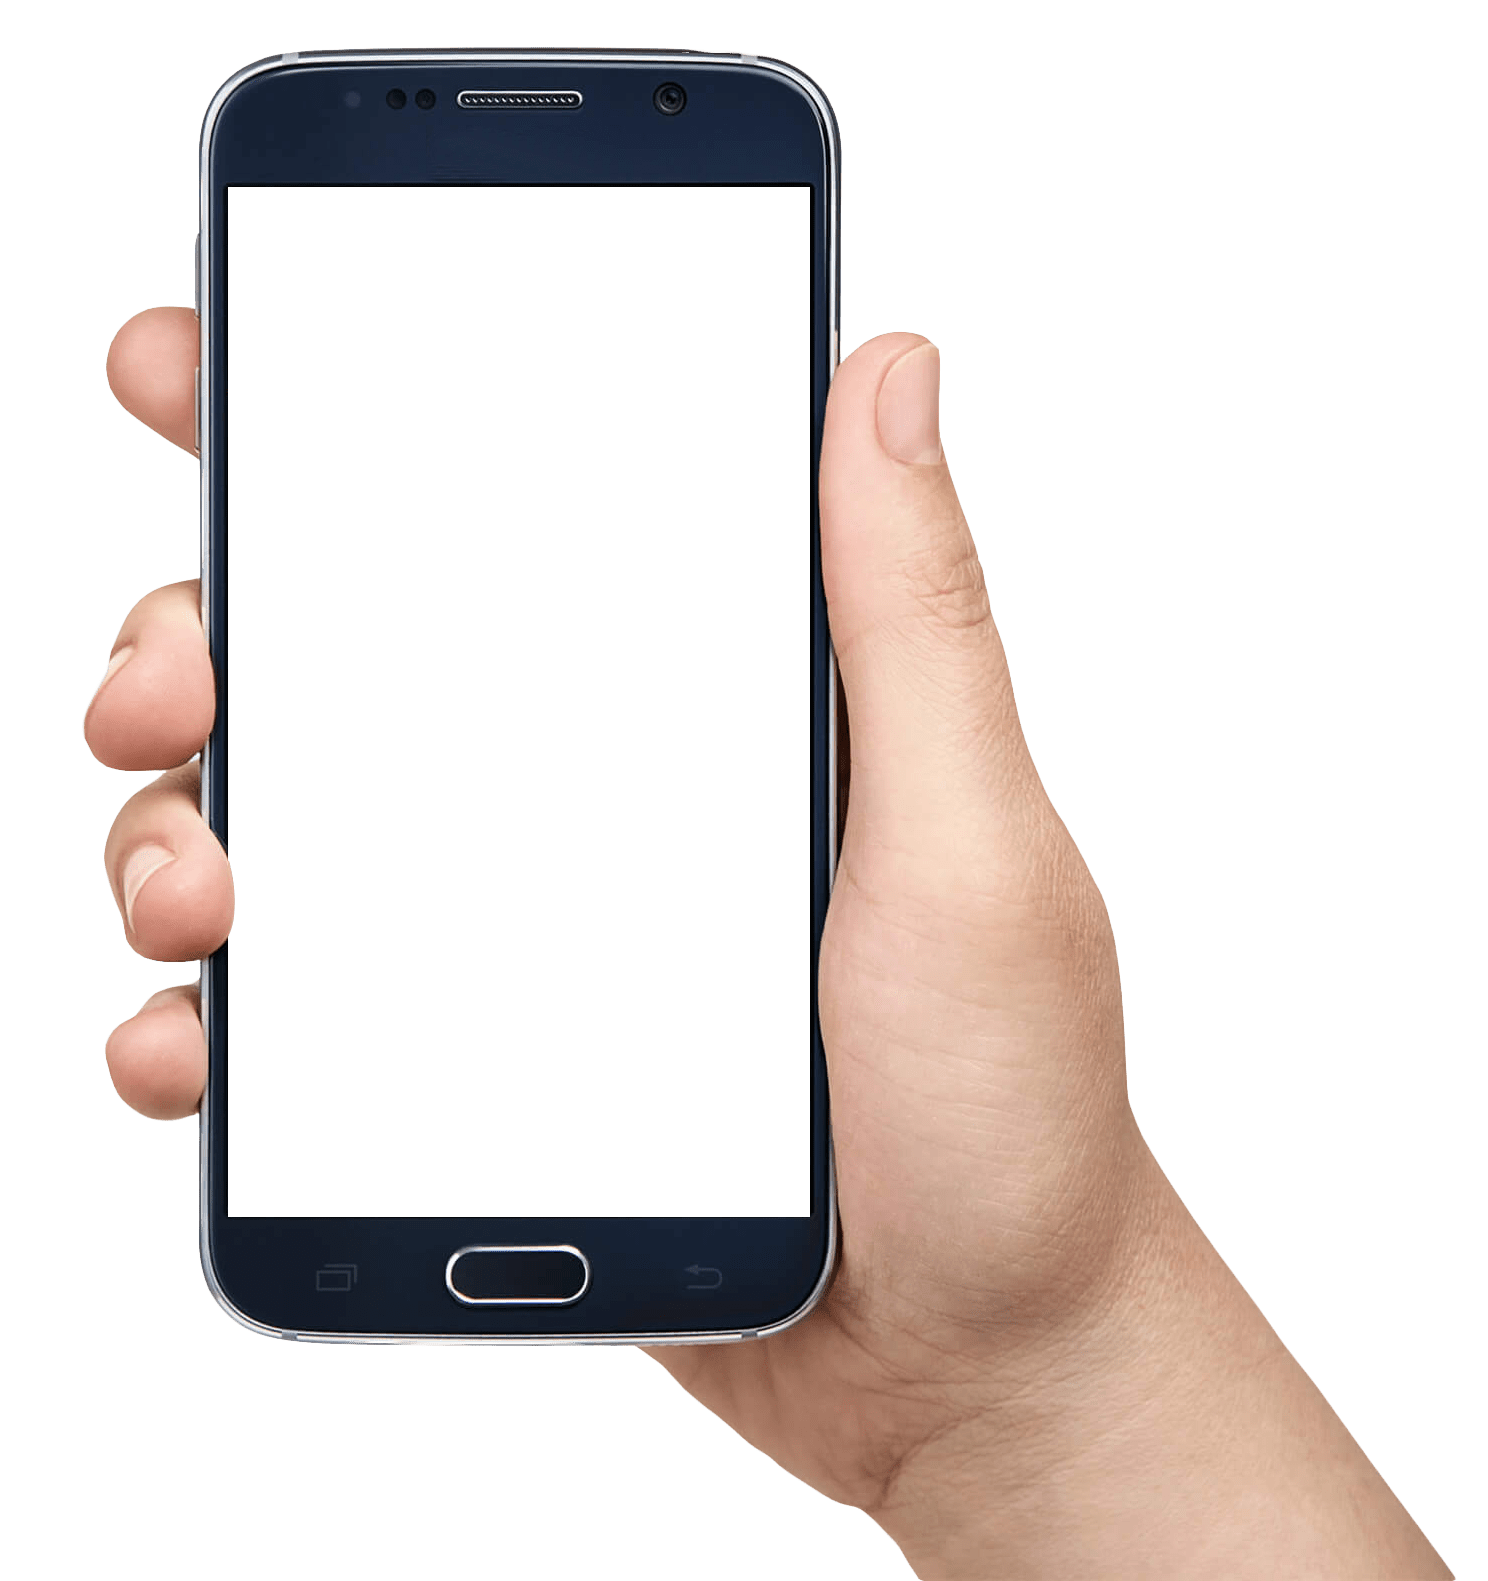
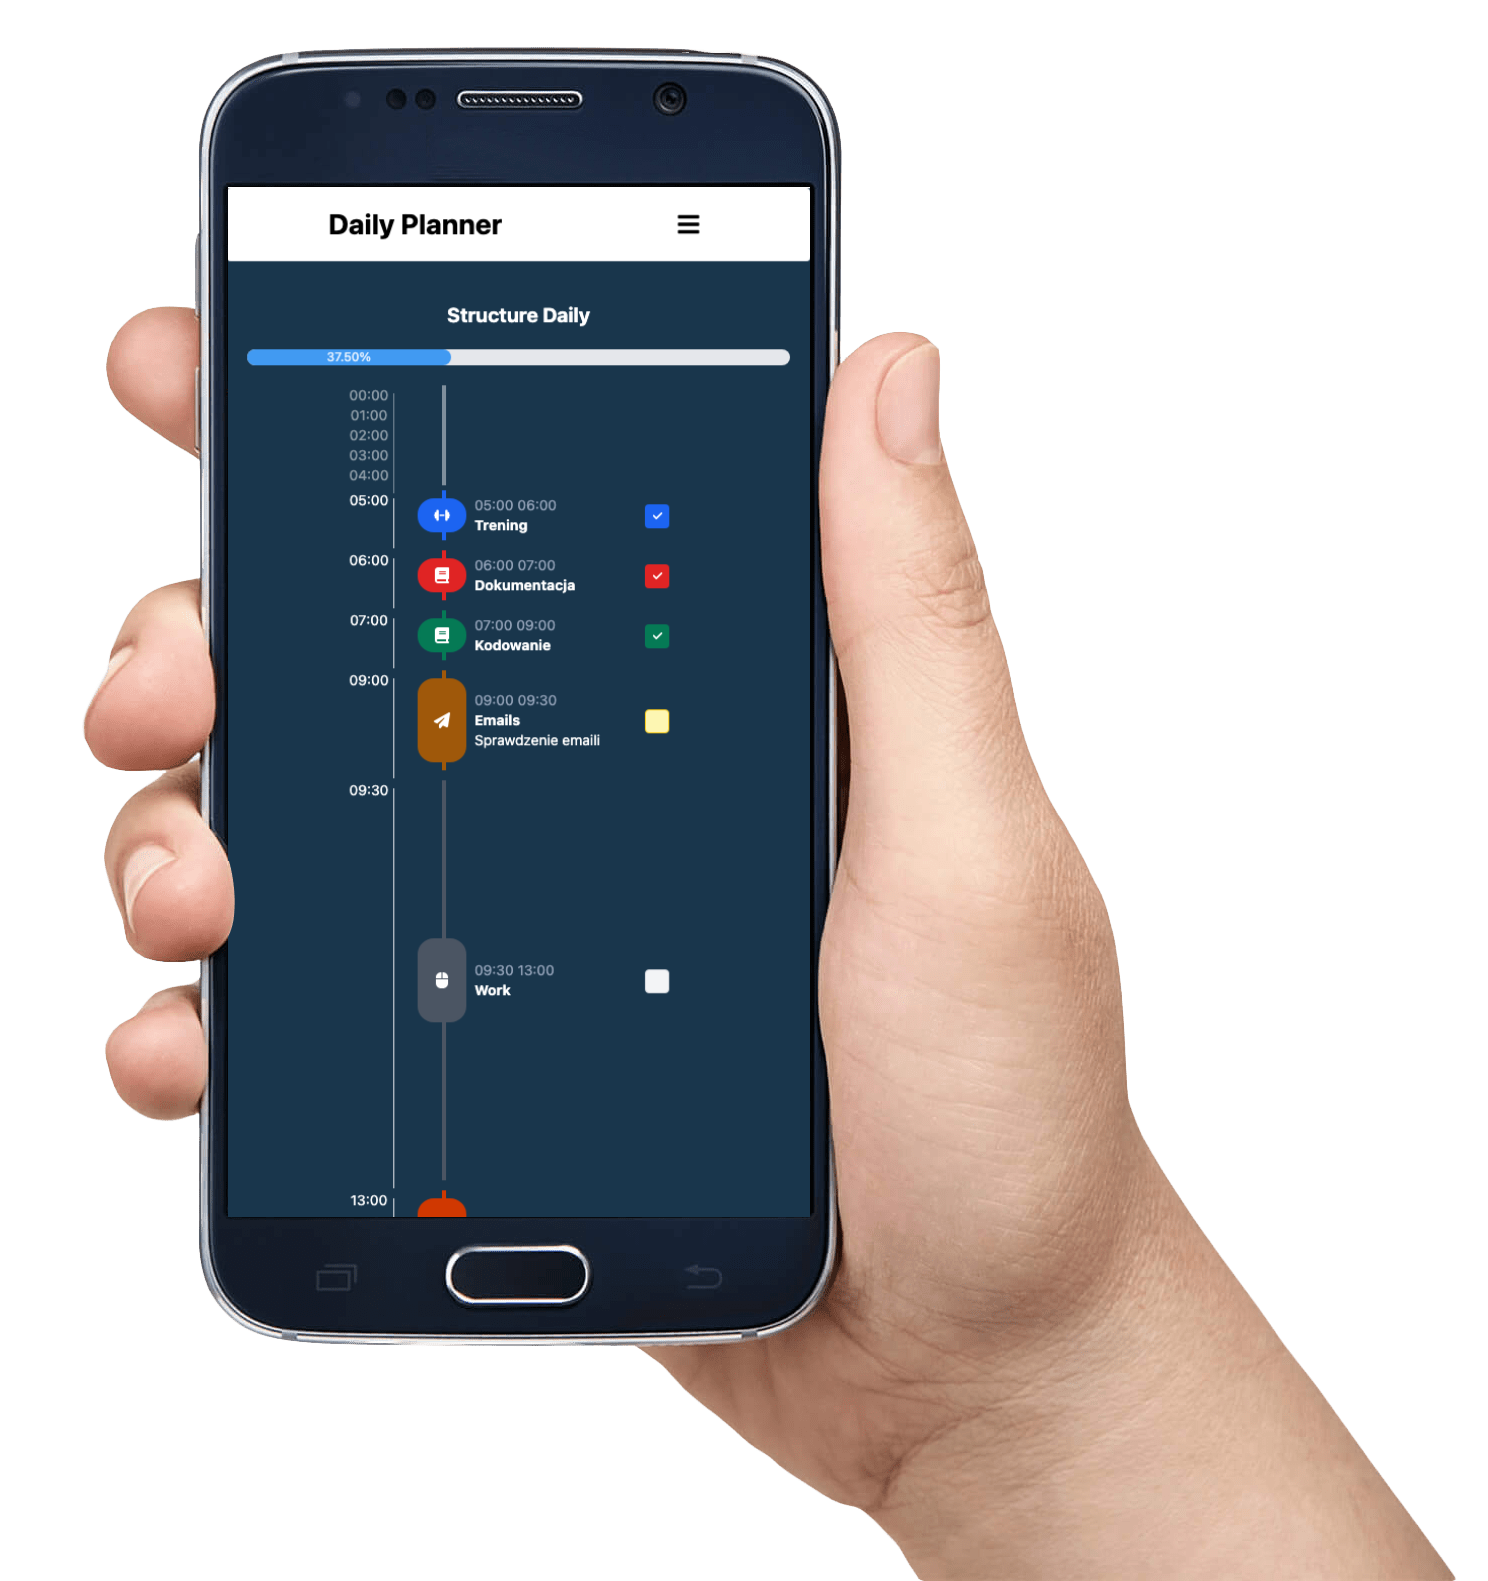
add app photo to mobile

Changed region(s): [[0.1546, 0.124, 0.5565, 0.7748]]

diff --git a/src/pages/Credentials/Credentials.tsx b/src/pages/Credentials/Credentials.tsx
@@ -12,7 +12,7 @@ const Credentials = ({}) => {
     <MotionWrapper>
       <LayoutWrapper paddingTop={true}>
         <Header title="Credentials" />
-        <div className="container m-auto h-[calc(100%-44px)] max-h-[900px] border rounded-lg">
+        <div className="container m-auto h-[calc(100%-68px)] max-h-[900px] xl:border rounded-lg">
           <div className="flex flex-col justify-between h-full">
             <div className="border bg-white text-black border-black-50 w-80 mx-auto flex flex-col items-center justify-center p-10 mt-5 rounded-lg">
               <div className="h-20">

diff --git a/src/pages/Intro/Intro.tsx b/src/pages/Intro/Intro.tsx
@@ -6,7 +6,7 @@ const Intro = ({}) => {
   return (
     <MotionWrapper>
       <LayoutWrapper paddingTop={false}>
-        <div className="container m-auto text-white lg:grid grid-cols-2 h-screen pt-5 max-h-[900px] lg:border-b pb-10">
+        <div className="container m-auto text-white lg:grid grid-cols-2 pt-5 max-h-[900px] lg:border-b pb-10">
           <div className="flex justify-center flex-col">
             <h2 className="text-left font-bold text-2xl my-10">
               Structure Planner - Boost Your Productivity with Ease

diff --git a/src/pages/Structure/Structure.tsx b/src/pages/Structure/Structure.tsx
@@ -147,7 +147,7 @@ const Structure: FC = () => {
         <Header title="Structure Daily">
           <Progress progress={progress} />
         </Header>
-        <div className="container mx-auto">
+        <div className="container mx-auto pb-10">
           <div className="Calendar my-5 relative mx-auto min-w-[22rem]">
             <HourLineWrapper timePosition={timePosition}>
               <HourLine actualHour={actualHour} />

diff --git a/src/Layout/LayoutWrapper.tsx b/src/Layout/LayoutWrapper.tsx
@@ -9,7 +9,7 @@ const LayoutWrapper: React.FC<LayoutWrapperProps> = ({
   return (
     <AnimatePresence>
       <div
-        className={`text-center h-[calc(100vh-69px)] ${paddingTop && 'pt-5'} xs:px-5 `}
+        className={`text-center h-[calc(100vh-73px)] ${paddingTop && 'pt-5'} xs:px-5 `}
       >
         {children}
       </div>
